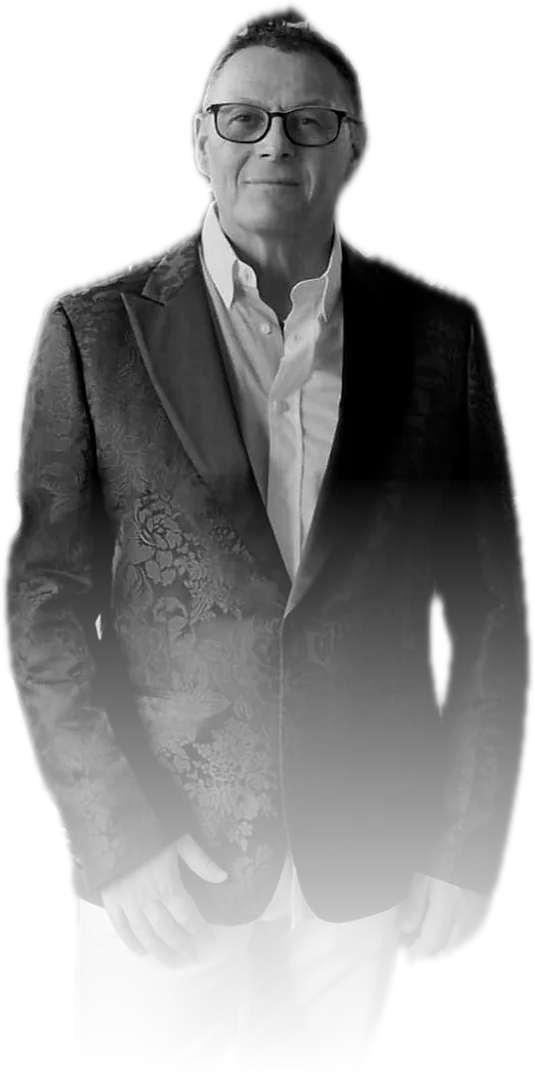
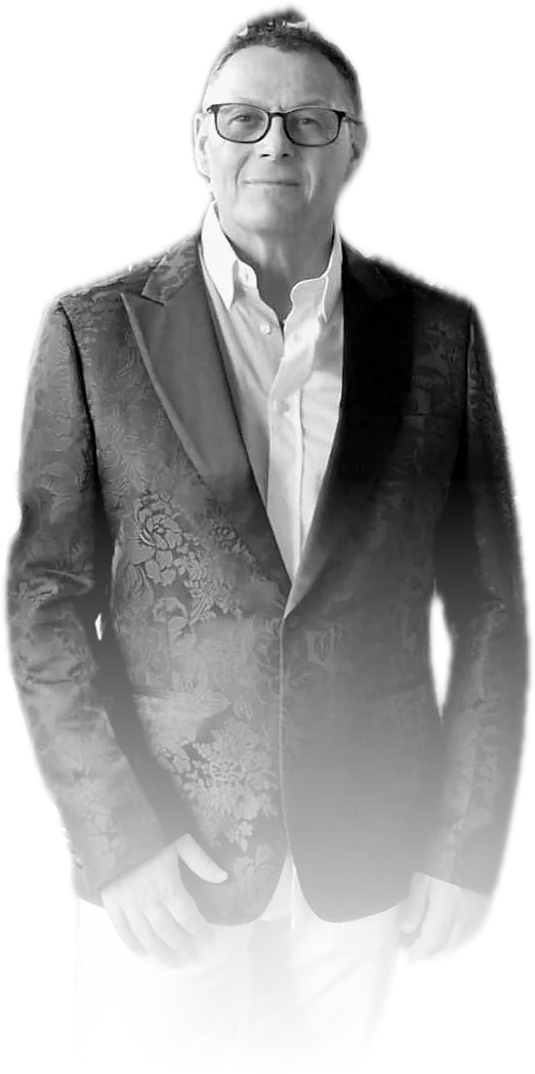
style(hero): brighter portrait
Re-graded the photo (lifted midtones, brighter highlights, less side shading)
and settled it at 42% (34% on phones) so the text stays readable.

Changed region(s): [[0.0299, 0.0, 0.6879, 0.676], [0.7776, 0.2765, 0.9271, 0.3994], [0.9271, 0.3994, 0.957, 0.4916]]

diff --git a/styles.css b/styles.css
@@ -1212,21 +1212,21 @@ em { font-style: italic; }
 .keeper img {
   display: block; width: 100%; height: 100%; object-fit: contain;
   mix-blend-mode: screen;                       /* only his light shows; his darks become the night */
-  filter: grayscale(1) contrast(1.15) brightness(calc(.9 + var(--kl, 0) * .5));
+  filter: grayscale(1) contrast(1.08) brightness(calc(1 + var(--kl, 0) * .35));
   -webkit-mask-image: radial-gradient(ellipse 62% 46% at 50% 30%, #000 35%, rgba(0,0,0,.45) 62%, transparent 82%);
           mask-image: radial-gradient(ellipse 62% 46% at 50% 30%, #000 35%, rgba(0,0,0,.45) 62%, transparent 82%);
 }
 /* entrance: he emerges slowly once the lamp is lit */
 .js .keeper img { opacity: 0; transform: scale(1.04); transform-origin: 50% 30%; }
 .js.is-ready .keeper img {
-  opacity: .3; transform: none;
+  opacity: .42; transform: none;
   transition: opacity 3s var(--ease-soft) .7s, transform 4s var(--ease) .7s;
 }
 @media (max-width: 760px) {
   .keeper { left: 62%; top: 52px; height: 104%; }
-  .js.is-ready .keeper img { opacity: .26; }
+  .js.is-ready .keeper img { opacity: .34; }
 }
 @media (prefers-reduced-motion: reduce) {
   .keeper { transform: translate3d(-50%, 0, 0); }
-  .js .keeper img { opacity: .3; transform: none; transition: none; }
+  .js .keeper img { opacity: .42; transform: none; transition: none; }
 }
